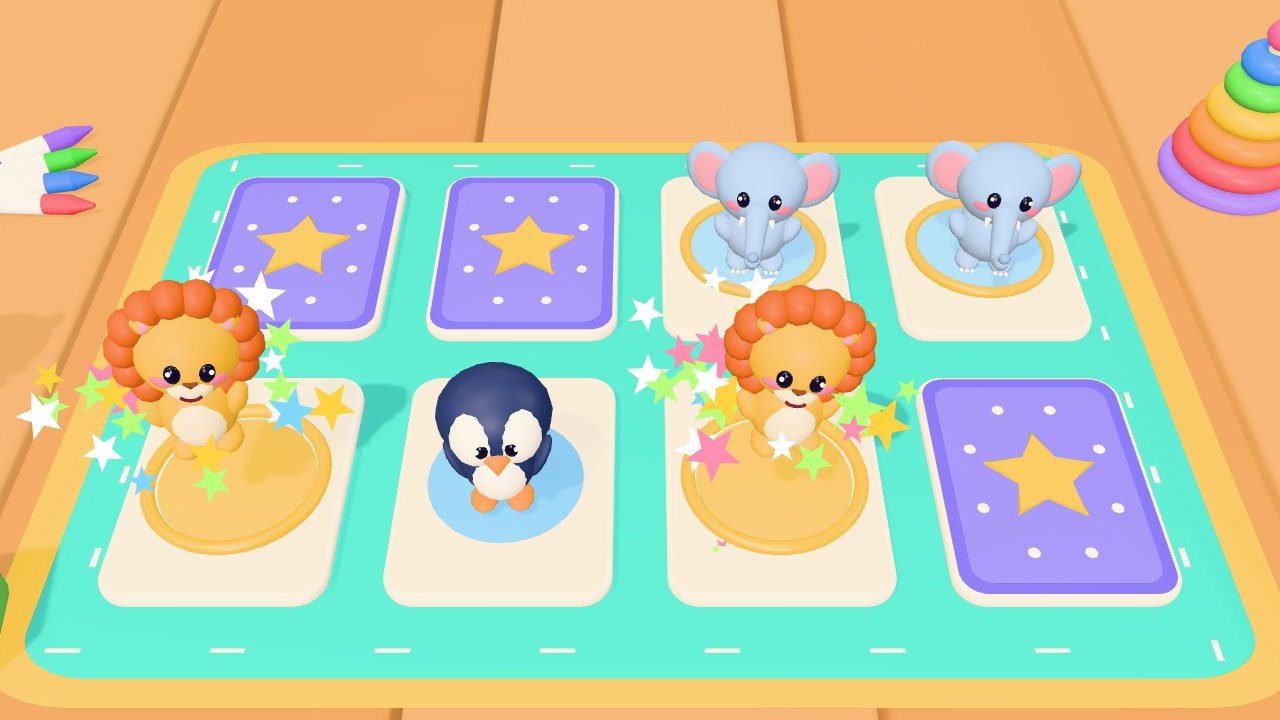
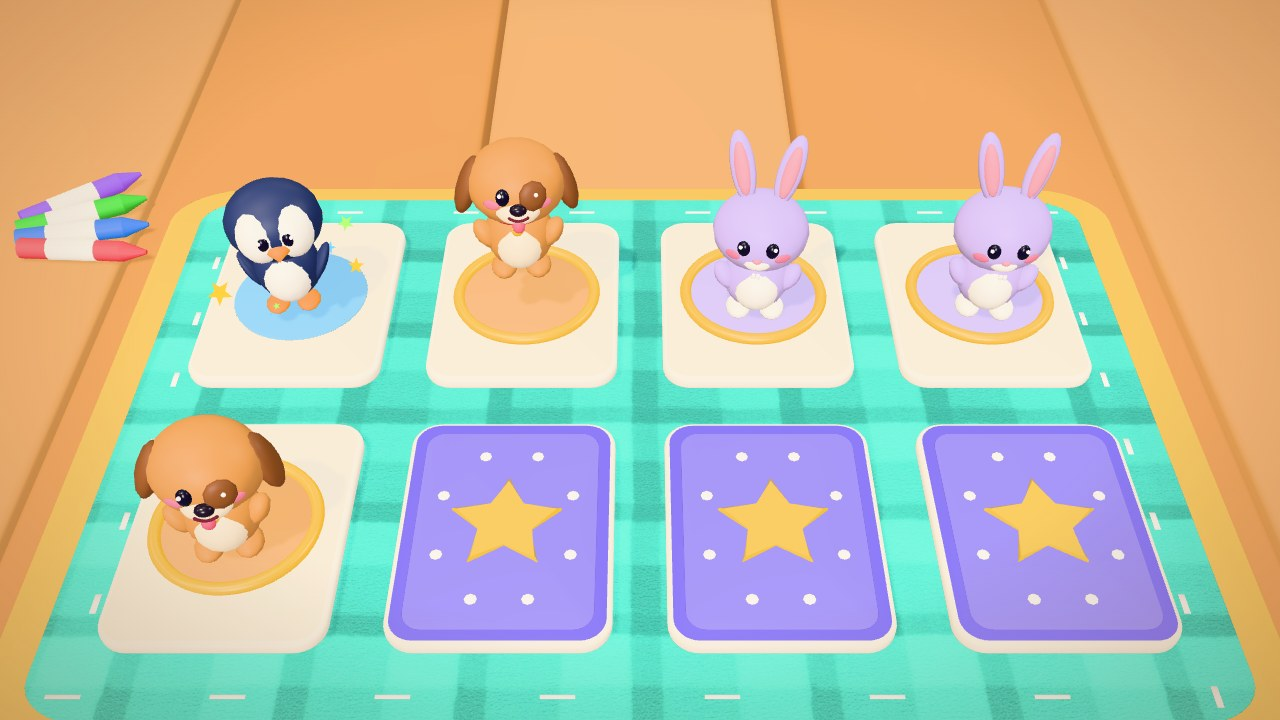
Memory Match: a soft checked blanket on the play mat, toys clear of the HUD
- The teal play mat is now a cosy checked blanket: the plaid of Poly Haven's
  CC0 "Curly Teddy Checkered" fabric, recoloured to the mat's teal by
  blender/mat_texture.py (a 46 KB tile that keeps its size however far
  the mat stretches).
- Toys keep a margin from the home and sound buttons, so the crayons no
  longer squeeze in beside the sound button on iPad portrait.
- The menu hint wraps into two even lines on phones instead of leaving
  "hello." on its own.
- Fresh cover showing the new blanket.

diff --git a/examples/memory-match/public/js/main.js b/examples/memory-match/public/js/main.js
@@ -95,8 +95,10 @@ const sound = new Sound()
 sound.setMuted(progress.muted)
 const effects = new Effects(scene)
 
-const assets = { animals: {}, card: null, setting: {} }
-const room = { mat: null, props: [] }
+const assets = { animals: {}, card: null, setting: {}, felt: null }
+const room = { mat: null, felt: null, props: [] }
+/** World size of one tile of the mat's checked felt (models/mat_felt.jpg, made by blender/mat_texture.py). */
+const FELT_TILE = new THREE.Vector2(1.5, 1.5 * (864 / 1024))
 const board = new THREE.Group()
 const parade = new THREE.Group()
 scene.add(board, parade)
@@ -175,14 +177,21 @@ async function loadAssets() {
     const pct = Math.round((Object.values(bytes).reduce((a, b) => a + b, 0) / 1.1e6) * 100)
     $('loading-text').textContent = `Waking up the animals… ${Math.min(99, pct)}%`
   }
-  await Promise.all(
-    files.map(async (name) => {
+  const felt = new THREE.TextureLoader().loadAsync('./models/mat_felt.jpg').then((tex) => {
+    tex.colorSpace = THREE.SRGBColorSpace
+    tex.wrapS = tex.wrapT = THREE.RepeatWrapping
+    tex.anisotropy = Math.min(8, renderer.capabilities.getMaxAnisotropy())
+    assets.felt = tex
+  })
+  await Promise.all([
+    felt,
+    ...files.map(async (name) => {
       loaded[name] = await loader.loadAsync(`./models/${name}.glb`, (e) => {
         bytes[name] = e.loaded
         report()
       })
     }),
-  )
+  ])
   for (const name of NAMES) {
     const root = loaded.animals.scene.getObjectByName(`animal_${name}`)
     root.position.set(0, 0, 0)
@@ -203,6 +212,22 @@ function buildRoom() {
   mat.traverse((o) => (o.receiveShadow = true))
   scene.add(table, mat)
   room.mat = mat
+  // The felt gets a soft checked blanket texture. The mesh has no UVs, so map its top straight
+  // down: one unit of UV per unit of the unstretched mat, scaled to the tile in placeRoom.
+  mat.traverse((o) => {
+    if (!o.isMesh || o.material.name !== 'mat_felt' || !assets.felt) return
+    const pos = o.geometry.attributes.position
+    const uv = new Float32Array(pos.count * 2)
+    for (let i = 0; i < pos.count; i++) {
+      uv[i * 2] = pos.getX(i)
+      uv[i * 2 + 1] = pos.getZ(i)
+    }
+    o.geometry.setAttribute('uv', new THREE.BufferAttribute(uv, 2))
+    o.material.map = assets.felt
+    o.material.color.set('#ffffff')
+    o.material.needsUpdate = true
+    room.felt = assets.felt
+  })
   for (const name of ['prop_blocks', 'prop_ball', 'prop_rings', 'prop_crayons', 'prop_bear']) {
     const prop = assets.setting[name]
     if (!prop) continue
@@ -220,6 +245,11 @@ function placeRoom(hw, hd) {
   const w = hw + 0.45
   const d = hd + 0.45
   room.mat.scale.set((w * 2) / 6, 1, (d * 2) / 6)
+  // Keep the checks the same size however far the mat stretches, centred on the board.
+  if (room.felt) {
+    room.felt.repeat.set(room.mat.scale.x / FELT_TILE.x, room.mat.scale.z / FELT_TILE.y)
+    room.felt.offset.set(0.5, 0.5)
+  }
   // Wide screens: toys beside the mat. Tall screens (and the menu, whose parade leaves the table
   // behind it empty) have room above the mat instead, so the toys line up behind it.
   const back = game.state === 'menu' ? 0.35 : 0 // a step further back, so no toy looks perched on an animal's head
@@ -282,7 +312,9 @@ function settleProps(view, w, d) {
   for (const el of document.querySelectorAll('#hud:not(.hidden) .hud-left, #hud:not(.hidden) .hud-center, #menu:not(.hidden) .logo, #menu:not(.hidden) .hint, #menu:not(.hidden) #play, #menu:not(.hidden) .level')) {
     range.selectNodeContents(el) // the text itself, not the full-width paragraph around it
     const r = el.matches('.hint, .logo') ? range.getBoundingClientRect() : el.getBoundingClientRect()
-    blockers.push([(r.left / innerWidth) * 2 - 1, (r.right / innerWidth) * 2 - 1, 1 - (r.bottom / innerHeight) * 2, 1 - (r.top / innerHeight) * 2])
+    // The HUD buttons get a margin, so a toy never crowds the home or sound button.
+    const m = el.matches('.hud-left') ? 18 : 0
+    blockers.push([((r.left - m) / innerWidth) * 2 - 1, ((r.right + m) / innerWidth) * 2 - 1, 1 - ((r.bottom + m) / innerHeight) * 2, 1 - ((r.top - m) / innerHeight) * 2])
   }
   // The menu's animals too, with a little headroom, so no toy seems to sit on an animal's head
   // like a hat (they may still pop in, so use their full size).

diff --git a/examples/memory-match/public/style.css b/examples/memory-match/public/style.css
@@ -36,7 +36,7 @@ button { font: inherit; cursor: pointer; border: 0; color: inherit; touch-action
 .overlay button { pointer-events: auto; }
 .menu-top { text-align: center; padding-top: 6px; }
 .menu-top .logo { -webkit-text-stroke: 2px rgba(255,255,255,0.9); paint-order: stroke fill; }
-.hint { margin: 6px 0 0; font-size: clamp(16px, 2.6vw, 22px); font-weight: 800; color: #5a3d7a; text-shadow: 0 2px 0 rgba(255,255,255,.7); }
+.hint { text-wrap: balance; margin: 6px 0 0; font-size: clamp(16px, 2.6vw, 22px); font-weight: 800; color: #5a3d7a; text-shadow: 0 2px 0 rgba(255,255,255,.7); }
 .menu-bottom { display: flex; flex-direction: column; align-items: center; gap: 12px; }
 
 .big-go {

diff --git a/examples/memory-match/blender/mat_texture.py b/examples/memory-match/blender/mat_texture.py
@@ -1,0 +1,39 @@
+"""
+Bakes the play mat's felt texture: the plaid of Poly Haven's "Curly Teddy Checkered"
+(CC0, by Rico Cilliers and colormass, https://polyhaven.com/a/curly_teddy_checkered)
+recoloured to the mat's teal, so the rug reads as a soft checked blanket.
+
+Only the light and dark of the photo is kept; the colour comes from the felt's #4fc6b8.
+The game (main.js) tiles it across the felt with world-sized UVs.
+
+Run with:  python3 mat_texture.py   (needs Pillow and numpy; writes ../public/models/mat_felt.jpg)
+"""
+from pathlib import Path
+
+import numpy as np
+from PIL import Image
+
+HERE = Path(__file__).parent
+SRC = HERE / "assets" / "curly_teddy_checkered_diff_1k.jpg"
+OUT = HERE.parent / "public" / "models" / "mat_felt.jpg"
+TEAL = "#4fc6b8"
+CONTRAST = 0.55  # 1 keeps the photo's full light and dark; lower is calmer behind the cards
+SIZE = (512, 432)  # the photo's 1024 x 864 aspect (0.56 m x 0.47 m)
+
+
+def to_linear(c):
+    return np.where(c <= 0.04045, c / 12.92, ((c + 0.055) / 1.055) ** 2.4)
+
+
+def to_srgb(c):
+    return np.where(c <= 0.0031308, c * 12.92, 1.055 * np.power(np.clip(c, 0, None), 1 / 2.4) - 0.055)
+
+
+img = Image.open(SRC).convert("RGB").resize(SIZE, Image.LANCZOS)
+lin = to_linear(np.asarray(img, dtype=np.float64) / 255)
+lum = lin @ np.array([0.2126, 0.7152, 0.0722])
+factor = 1 + (lum / lum.mean() - 1) * CONTRAST
+teal = to_linear(np.array([int(TEAL[i : i + 2], 16) for i in (1, 3, 5)]) / 255)
+out = to_srgb(np.clip(teal * factor[..., None], 0, 1))
+Image.fromarray((out * 255 + 0.5).astype(np.uint8)).save(OUT, quality=88, optimize=True)
+print(OUT, OUT.stat().st_size, "bytes; factor range", factor.min().round(2), factor.max().round(2))
